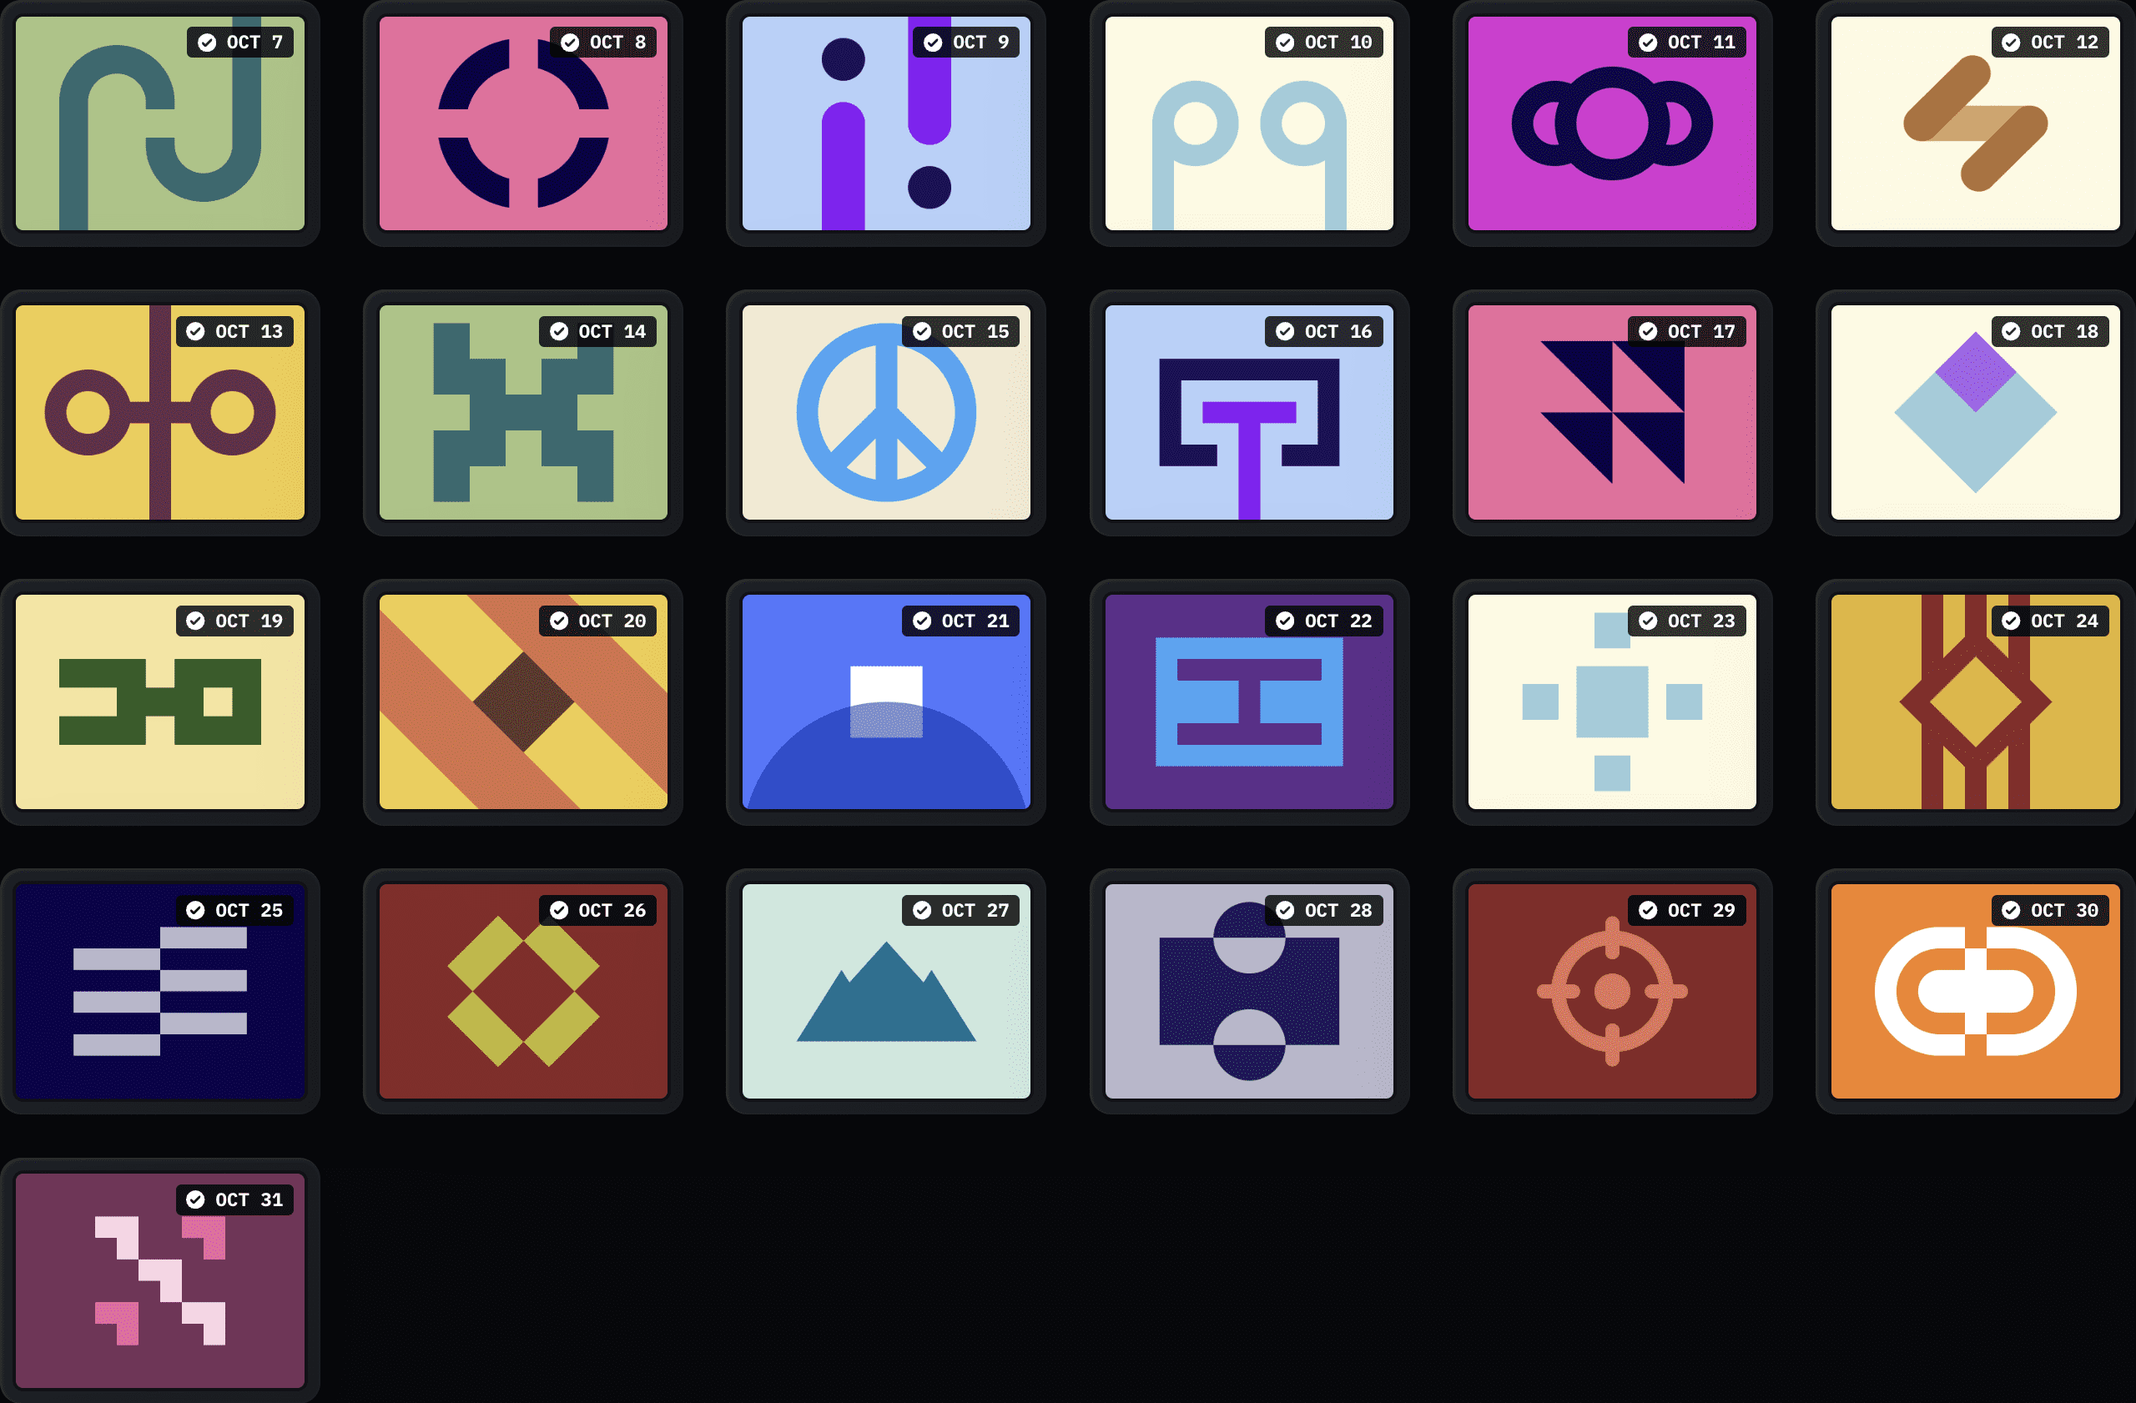
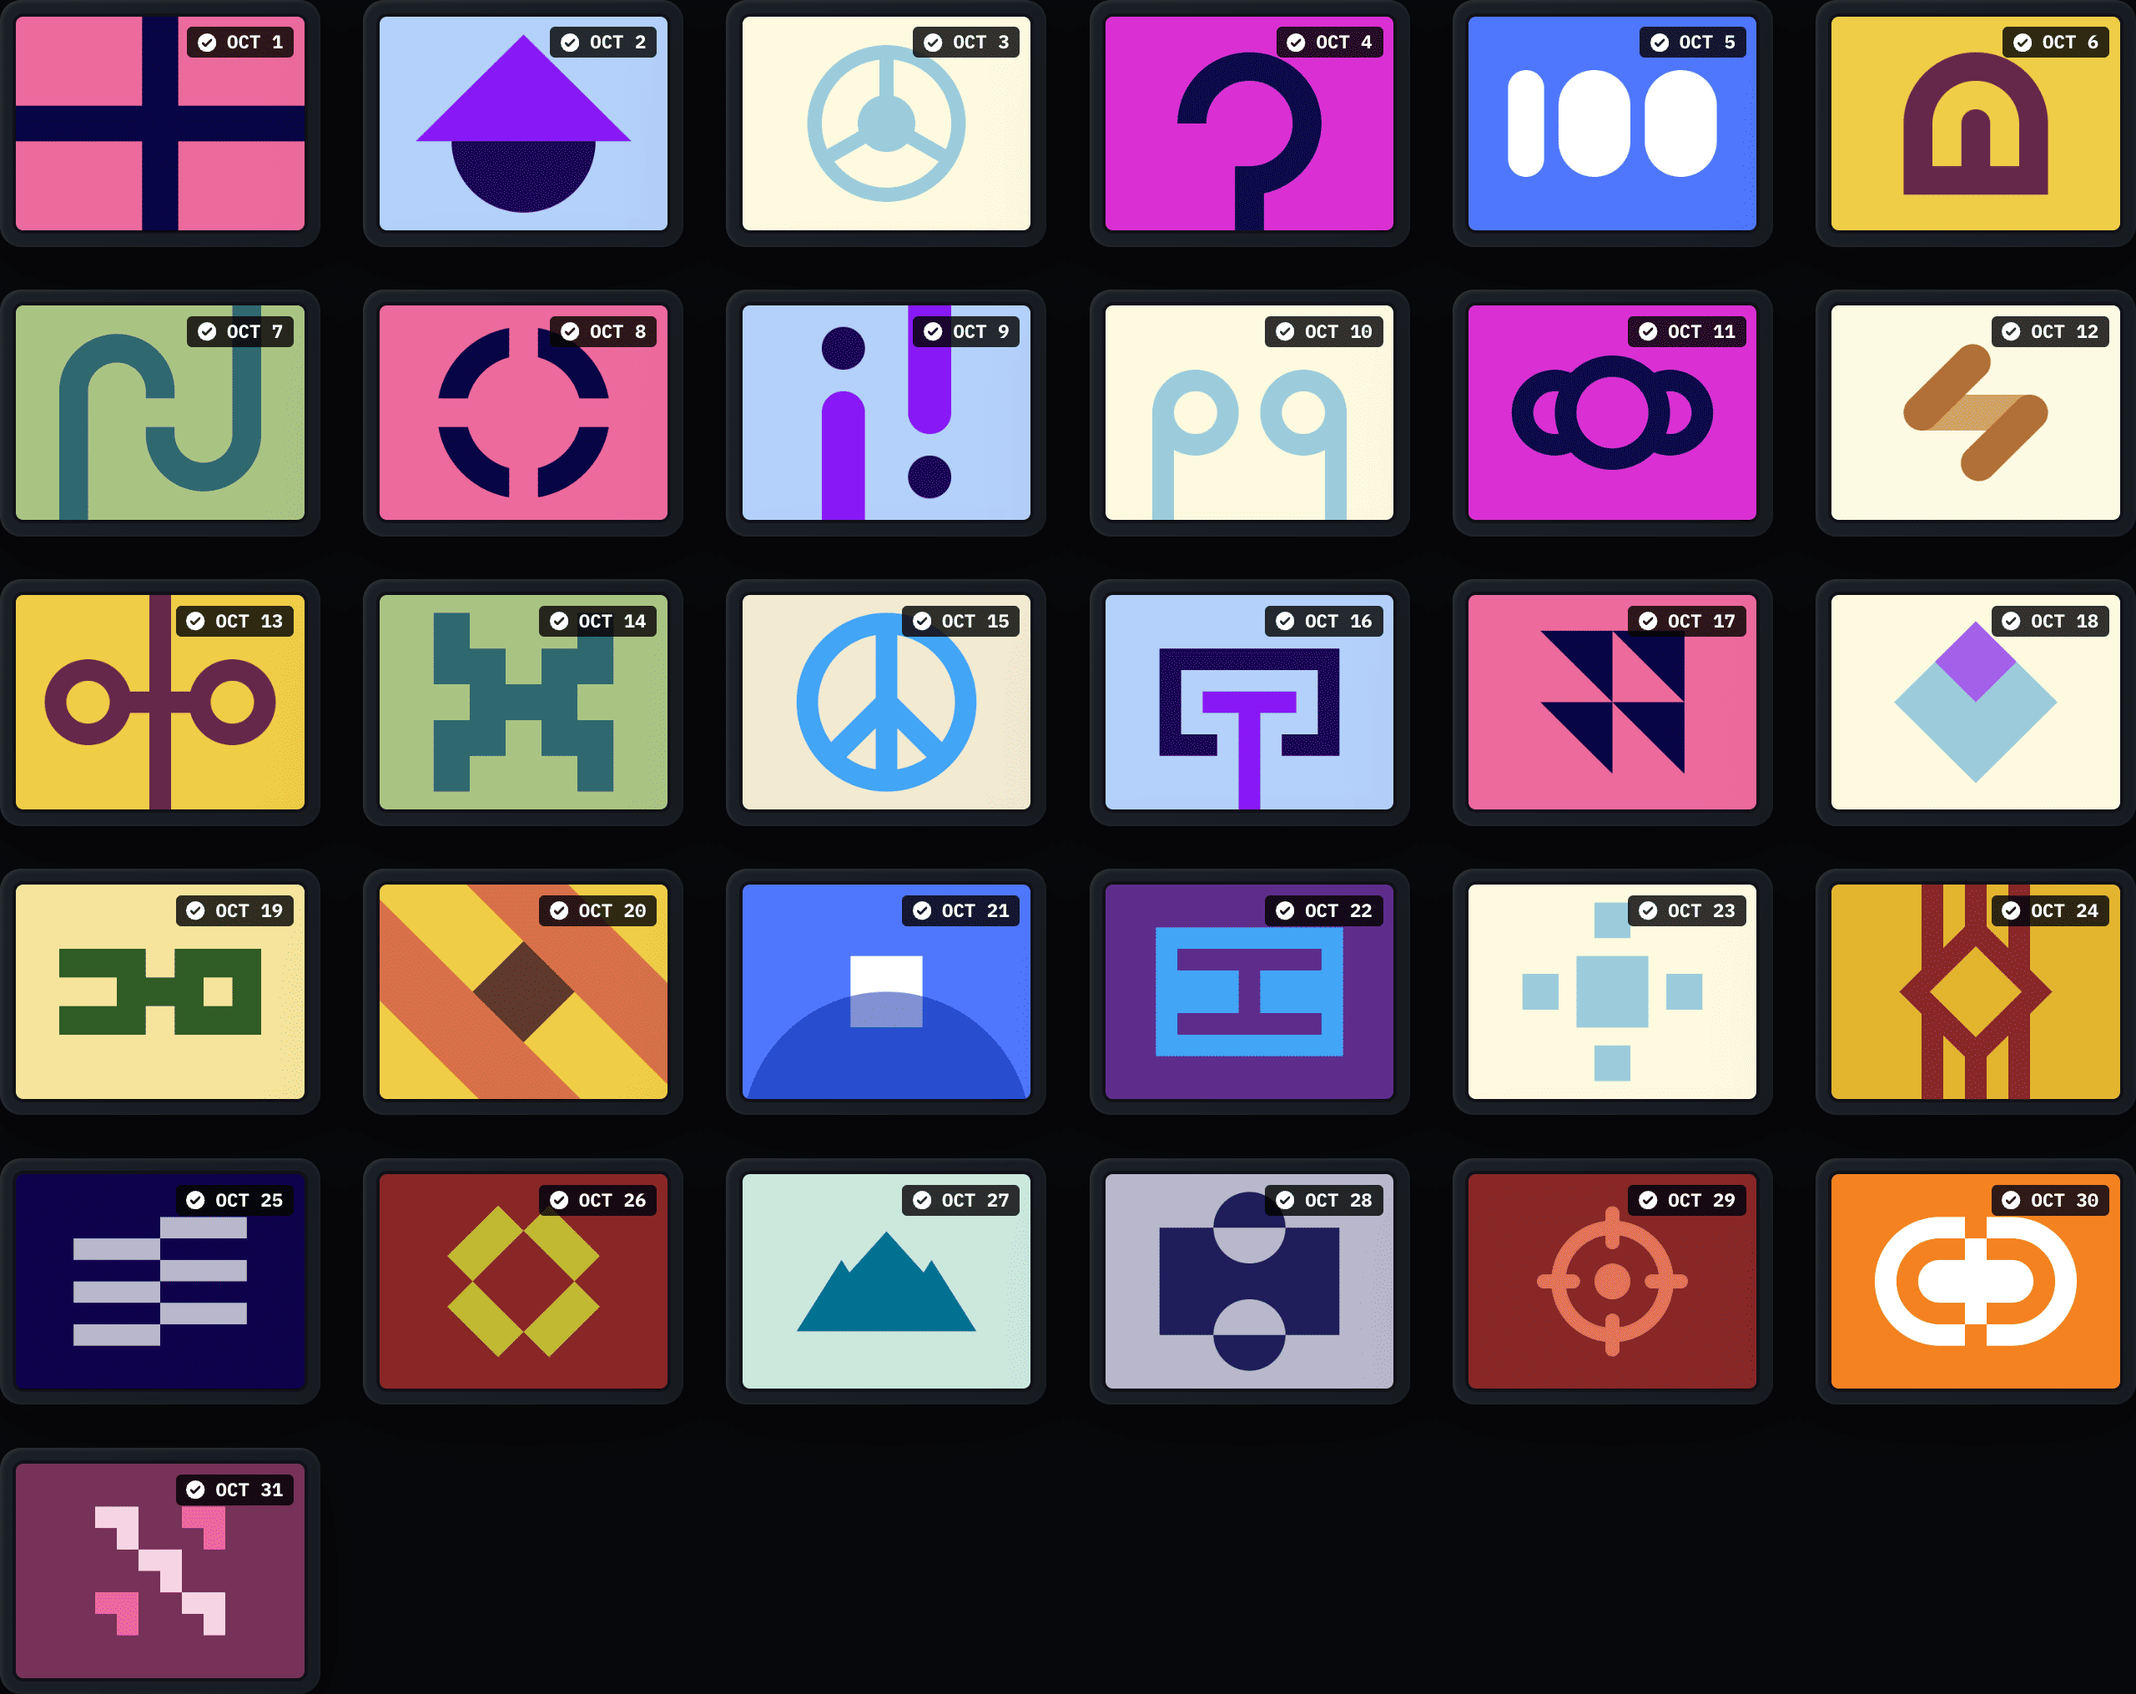
Update aug battle

diff --git a/script.js b/script.js
@@ -66,7 +66,7 @@ image_urls
                   fill="white"
                 ></path>
               </svg>
-              Sep ${1 + index}
+              Oct ${1 + index}
             </p>
           </div>
         </div>
